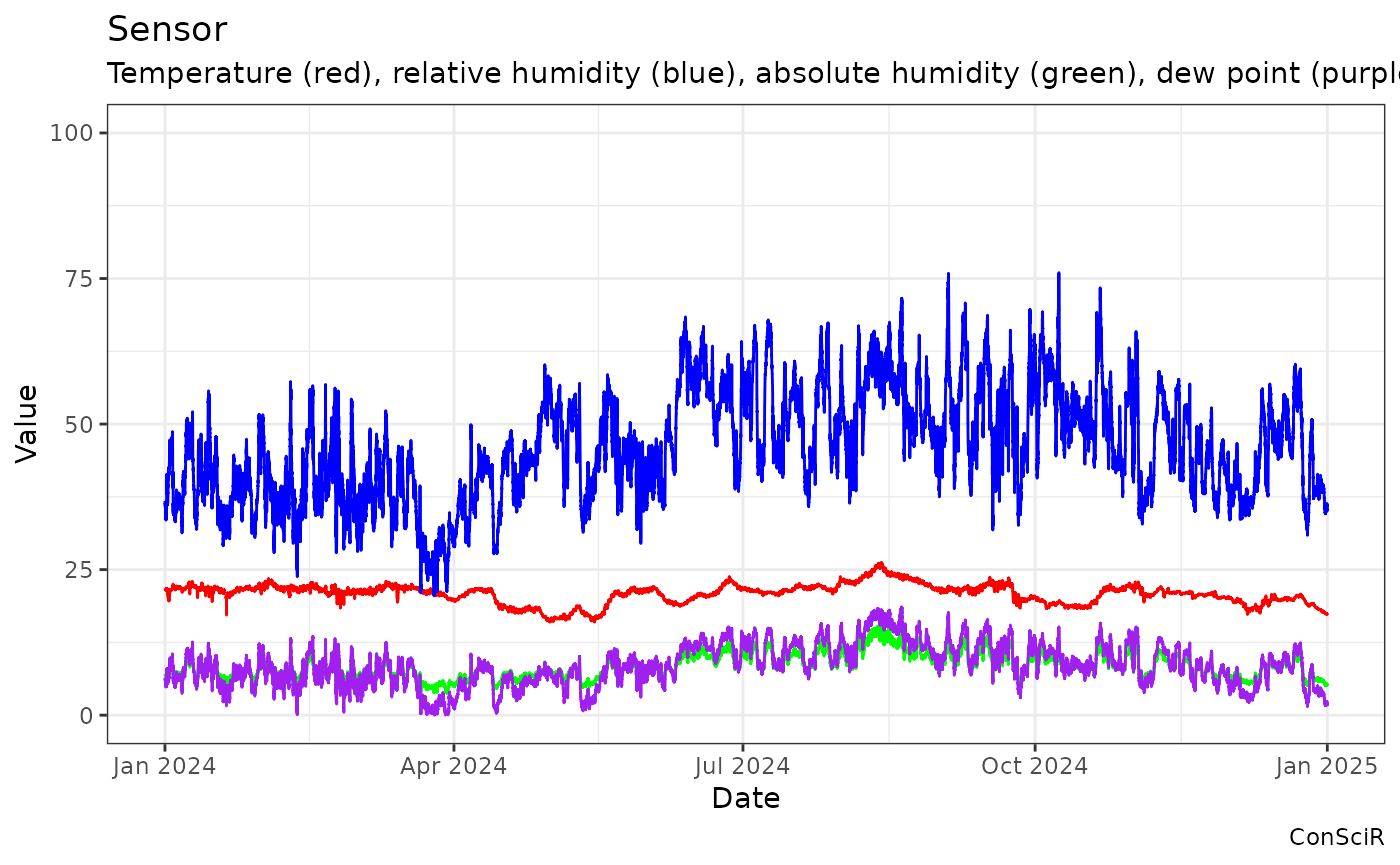
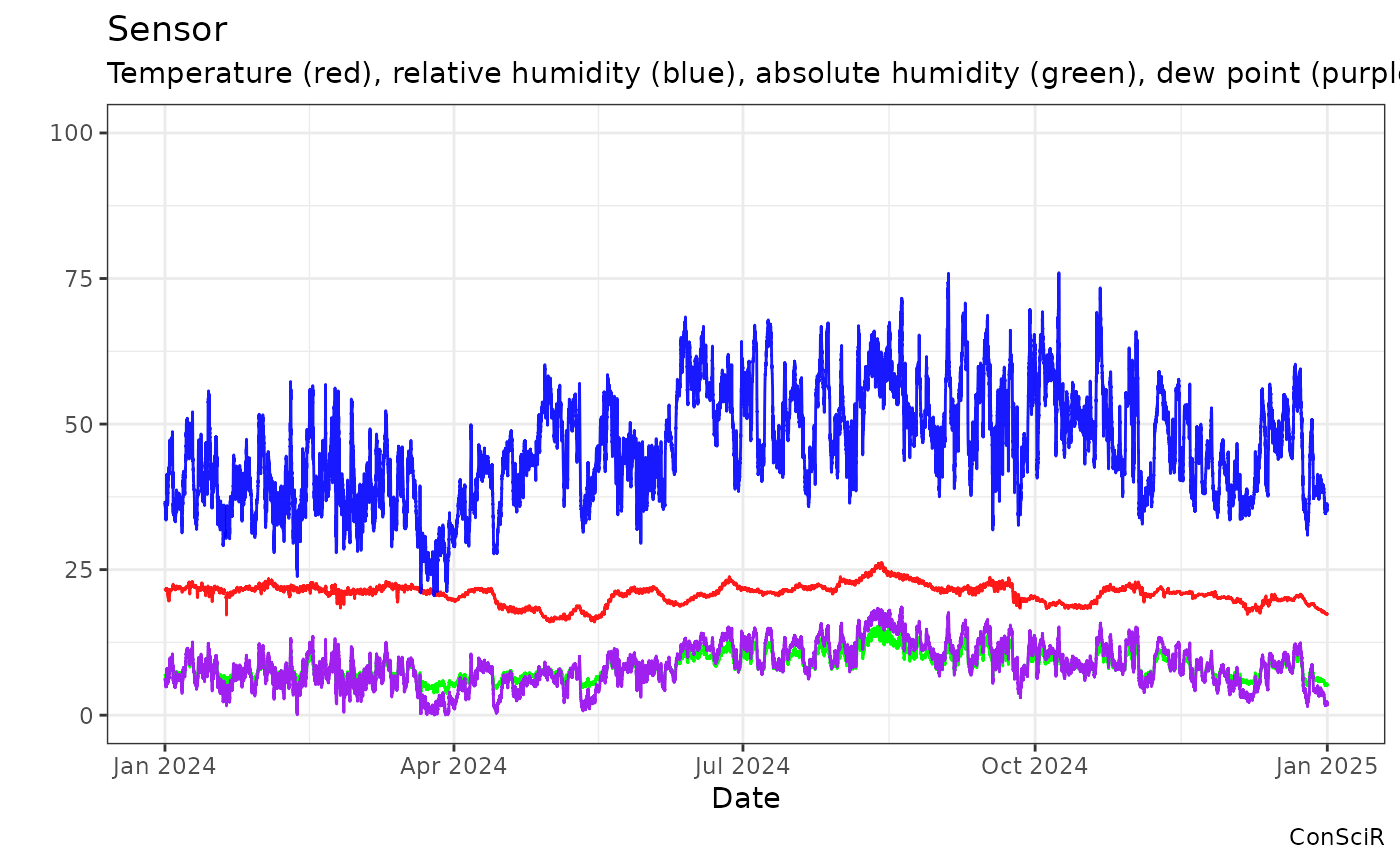
Deploying to gh-pages from @ BhavShah01/ConSciR@cc1a2377f880baf604066acdcfe8eb4fcd599930 🚀

diff --git a/articles/ConSciR-Intro.html b/articles/ConSciR-Intro.html
@@ -90,6 +90,10 @@ calculations and streamlining common tasks in conservation.</p>
 <code class="sourceCode R"><span><span class="fu">devtools</span><span class="fu">::</span><span class="fu">install_github</span><span class="op">(</span><span class="st">"BhavShah01/ConSciR"</span><span class="op">)</span></span></code></pre></div>
 <div class="sourceCode" id="cb3"><pre class="downlit sourceCode r">
 <code class="sourceCode R"><span><span class="kw"><a href="https://rdrr.io/r/base/library.html" class="external-link">library</a></span><span class="op">(</span><span class="va"><a href="https://bhavshah01.github.io/ConSciR/">ConSciR</a></span><span class="op">)</span></span></code></pre></div>
+<p>Or</p>
+<div class="sourceCode" id="cb4"><pre class="downlit sourceCode r">
+<code class="sourceCode R"><span><span class="fu"><a href="https://rdrr.io/r/utils/install.packages.html" class="external-link">install.packages</a></span><span class="op">(</span><span class="st">"pak"</span><span class="op">)</span></span>
+<span><span class="fu">pak</span><span class="fu">::</span><span class="fu"><a href="https://pak.r-lib.org/reference/pak.html" class="external-link">pak</a></span><span class="op">(</span><span class="st">"BhavShah01/ConSciR"</span><span class="op">)</span></span></code></pre></div>
 </div>
 <div class="section level2">
 <h2 id="tidy-data">Tidy data<a class="anchor" aria-label="anchor" href="#tidy-data"></a>
@@ -148,12 +152,12 @@ mixing ratio, enthalpy</li>
 <li>Tidying data:</li>
 </ul>
 <p>Examples of use:</p>
-<div class="sourceCode" id="cb6"><pre class="downlit sourceCode r">
+<div class="sourceCode" id="cb7"><pre class="downlit sourceCode r">
 <code class="sourceCode R"><span><span class="co"># Load packages</span></span>
 <span><span class="kw"><a href="https://rdrr.io/r/base/library.html" class="external-link">library</a></span><span class="op">(</span><span class="va"><a href="https://bhavshah01.github.io/ConSciR/">ConSciR</a></span><span class="op">)</span></span>
 <span><span class="kw"><a href="https://rdrr.io/r/base/library.html" class="external-link">library</a></span><span class="op">(</span><span class="va"><a href="https://dplyr.tidyverse.org" class="external-link">dplyr</a></span><span class="op">)</span></span>
 <span><span class="kw"><a href="https://rdrr.io/r/base/library.html" class="external-link">library</a></span><span class="op">(</span><span class="va"><a href="https://ggplot2.tidyverse.org" class="external-link">ggplot2</a></span><span class="op">)</span></span></code></pre></div>
-<div class="sourceCode" id="cb7"><pre class="downlit sourceCode r">
+<div class="sourceCode" id="cb8"><pre class="downlit sourceCode r">
 <code class="sourceCode R"><span><span class="co"># Add calculated values using mutate</span></span>
 <span><span class="fu"><a href="https://rdrr.io/r/utils/head.html" class="external-link">head</a></span><span class="op">(</span><span class="va">mydata</span><span class="op">)</span> <span class="op">|&gt;</span></span>
 <span>  <span class="fu"><a href="https://dplyr.tidyverse.org/reference/mutate.html" class="external-link">mutate</a></span><span class="op">(</span></span>
@@ -174,20 +178,18 @@ mixing ratio, enthalpy</li>
 <span><span class="co">#&gt; <span style="color: #BCBCBC;">5</span> London Room 1 2024-01-01 <span style="color: #949494;">00:59:59</span>  21.7  36.5   6.95     6.20        5.87</span></span>
 <span><span class="co">#&gt; <span style="color: #BCBCBC;">6</span> London Room 1 2024-01-01 <span style="color: #949494;">01:14:59</span>  21.7  36.2   6.90     6.08        5.83</span></span>
 <span><span class="co">#&gt; <span style="color: #949494;"># ℹ 3 more variables: Enthalpy &lt;dbl&gt;, IPI &lt;dbl&gt;, PI &lt;dbl&gt;</span></span></span></code></pre></div>
-<div class="sourceCode" id="cb8"><pre class="downlit sourceCode r">
+<div class="sourceCode" id="cb9"><pre class="downlit sourceCode r">
 <code class="sourceCode R"><span><span class="co"># Visualise and explore data</span></span>
 <span><span class="va">mydata</span> <span class="op">|&gt;</span></span>
 <span>  <span class="fu"><a href="https://dplyr.tidyverse.org/reference/mutate.html" class="external-link">mutate</a></span><span class="op">(</span></span>
 <span>    AbsHum <span class="op">=</span> <span class="fu"><a href="../reference/calcAH.html">calcAH</a></span><span class="op">(</span><span class="va">Temp</span>, <span class="va">RH</span><span class="op">)</span>, </span>
 <span>    DewPoint <span class="op">=</span> <span class="fu"><a href="../reference/calcDP.html">calcDP</a></span><span class="op">(</span><span class="va">Temp</span>, <span class="va">RH</span><span class="op">)</span></span>
 <span>  <span class="op">)</span> <span class="op">|&gt;</span></span>
-<span>  <span class="fu"><a href="https://ggplot2.tidyverse.org/reference/ggplot.html" class="external-link">ggplot</a></span><span class="op">(</span><span class="op">)</span> <span class="op">+</span> </span>
-<span>  <span class="fu"><a href="https://ggplot2.tidyverse.org/reference/geom_path.html" class="external-link">geom_line</a></span><span class="op">(</span><span class="fu"><a href="https://ggplot2.tidyverse.org/reference/aes.html" class="external-link">aes</a></span><span class="op">(</span><span class="va">Date</span>, <span class="va">Temp</span><span class="op">)</span>, col <span class="op">=</span> <span class="st">"red"</span><span class="op">)</span> <span class="op">+</span> </span>
-<span>  <span class="fu"><a href="https://ggplot2.tidyverse.org/reference/geom_path.html" class="external-link">geom_line</a></span><span class="op">(</span><span class="fu"><a href="https://ggplot2.tidyverse.org/reference/aes.html" class="external-link">aes</a></span><span class="op">(</span><span class="va">Date</span>, <span class="va">RH</span><span class="op">)</span>, col <span class="op">=</span> <span class="st">"blue"</span><span class="op">)</span> <span class="op">+</span></span>
+<span>  <span class="fu"><a href="../reference/graph_TRH.html">graph_TRH</a></span><span class="op">(</span><span class="op">)</span> <span class="op">+</span> </span>
 <span>  <span class="fu"><a href="https://ggplot2.tidyverse.org/reference/geom_path.html" class="external-link">geom_line</a></span><span class="op">(</span><span class="fu"><a href="https://ggplot2.tidyverse.org/reference/aes.html" class="external-link">aes</a></span><span class="op">(</span><span class="va">Date</span>, <span class="va">AbsHum</span><span class="op">)</span>, col <span class="op">=</span> <span class="st">"green"</span><span class="op">)</span> <span class="op">+</span></span>
 <span>  <span class="fu"><a href="https://ggplot2.tidyverse.org/reference/geom_path.html" class="external-link">geom_line</a></span><span class="op">(</span><span class="fu"><a href="https://ggplot2.tidyverse.org/reference/aes.html" class="external-link">aes</a></span><span class="op">(</span><span class="va">Date</span>, <span class="va">DewPoint</span><span class="op">)</span>, col <span class="op">=</span> <span class="st">"purple"</span><span class="op">)</span> <span class="op">+</span></span>
 <span>  <span class="fu"><a href="https://ggplot2.tidyverse.org/reference/lims.html" class="external-link">lims</a></span><span class="op">(</span>y <span class="op">=</span> <span class="fu"><a href="https://rdrr.io/r/base/c.html" class="external-link">c</a></span><span class="op">(</span><span class="fl">0</span>, <span class="fl">100</span><span class="op">)</span><span class="op">)</span> <span class="op">+</span> </span>
-<span>  <span class="fu"><a href="https://ggplot2.tidyverse.org/reference/labs.html" class="external-link">labs</a></span><span class="op">(</span>x <span class="op">=</span> <span class="st">"Date"</span>, y <span class="op">=</span> <span class="st">"Value"</span>, title <span class="op">=</span> <span class="st">"Sensor"</span>, </span>
+<span>  <span class="fu"><a href="https://ggplot2.tidyverse.org/reference/labs.html" class="external-link">labs</a></span><span class="op">(</span>x <span class="op">=</span> <span class="st">"Date"</span>, y <span class="op">=</span> <span class="st">""</span>, title <span class="op">=</span> <span class="st">"Sensor"</span>, </span>
 <span>       subtitle <span class="op">=</span> <span class="st">"Temperature (red), relative humidity (blue), absolute humidity (green), dew point (purple)"</span>, caption <span class="op">=</span> <span class="st">"ConSciR"</span><span class="op">)</span> <span class="op">+</span></span>
 <span>  <span class="fu"><a href="https://ggplot2.tidyverse.org/reference/ggtheme.html" class="external-link">theme_bw</a></span><span class="op">(</span><span class="op">)</span></span></code></pre></div>
 <p><img src="ConSciR-Intro_files/figure-html/unnamed-chunk-6-1.png" width="700"></p>

diff --git a/articles/ConSciR-FirstTimeR.html b/articles/ConSciR-FirstTimeR.html
@@ -107,7 +107,9 @@ steps:</p>
 <p><strong>Installing a package:</strong> Open the Console in
 RStudio and type:</p>
 <div class="sourceCode" id="cb1"><pre class="downlit sourceCode r">
-<code class="sourceCode R"><span><span class="fu"><a href="https://rdrr.io/r/utils/install.packages.html" class="external-link">install.packages</a></span><span class="op">(</span><span class="st">"ggplot2"</span><span class="op">)</span></span></code></pre></div>
+<code class="sourceCode R"><span><span class="fu"><a href="https://rdrr.io/r/utils/install.packages.html" class="external-link">install.packages</a></span><span class="op">(</span><span class="st">"ggplot2"</span><span class="op">)</span></span>
+<span><span class="fu"><a href="https://rdrr.io/r/utils/install.packages.html" class="external-link">install.packages</a></span><span class="op">(</span><span class="st">"tidyverse"</span><span class="op">)</span></span>
+<span><span class="fu"><a href="https://rdrr.io/r/utils/install.packages.html" class="external-link">install.packages</a></span><span class="op">(</span><span class="st">"runner"</span><span class="op">)</span></span></code></pre></div>
 </li>
 <li>
 <p><strong>Loading the package:</strong> After installation, load
